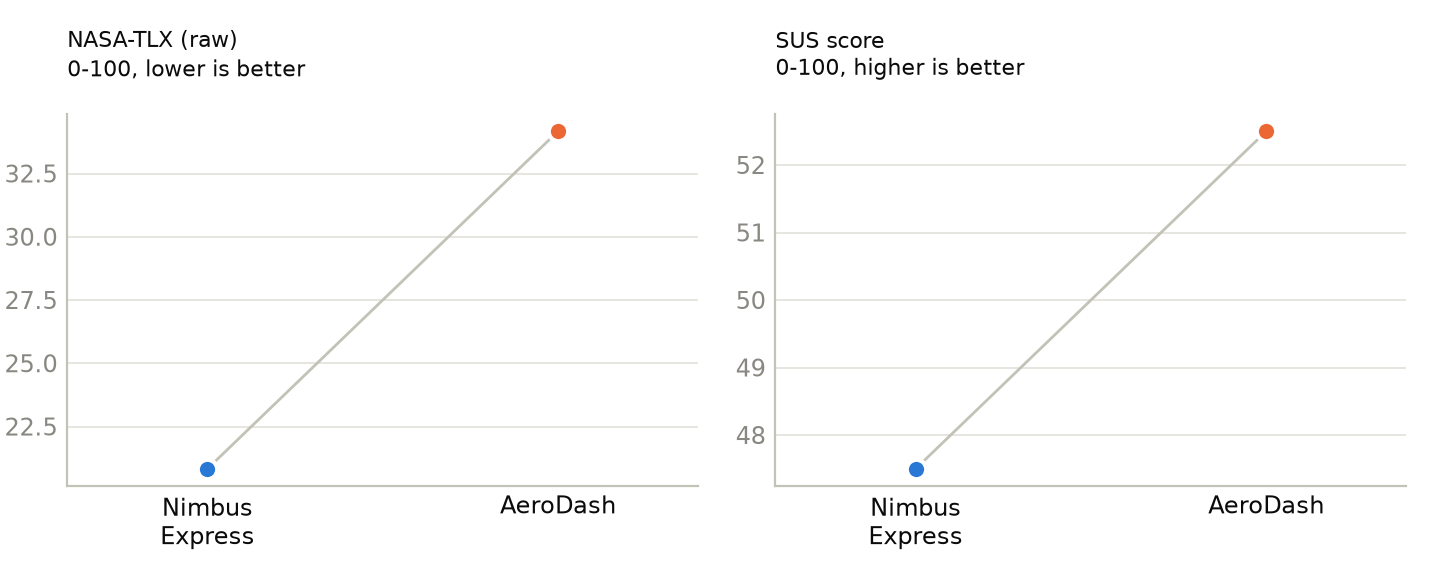
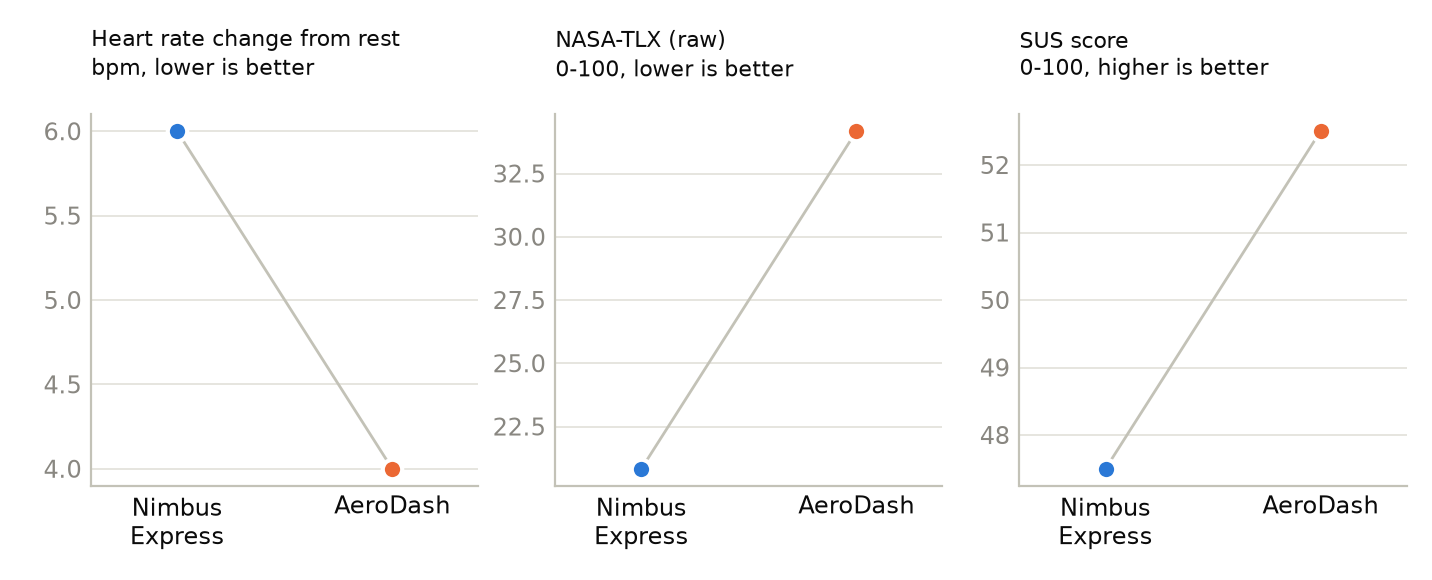
Rebuild report from 273fd54

diff --git a/report/REPORT.md b/report/REPORT.md
@@ -3,7 +3,7 @@
 [Author 1 Name], [Author 2 Name], [Author 3 Name], [Author 4 Name]
 *ENGR 321: Human Factors Engineering, [Department], [University]* · *Instructor: [Name]*
 
-> **Generated file — do not edit `report/REPORT.md` by hand.** Edit `report/template.md`; the report rebuilds from the data on every push. Numbers in this version: 1 participants, 2 flights, built 2026-11-19 05:21 UTC from commit `29f52c3`.
+> **Generated file — do not edit `report/REPORT.md` by hand.** Edit `report/template.md`; the report rebuilds from the data on every push. Numbers in this version: 1 participants, 2 flights, built 2026-11-19 15:59 UTC from commit `273fd54`.
 
 **_Abstract_—This study compared two drone delivery dashboards, Nimbus Express and AeroDash, to see how each one's design affects how quickly operators notice and act on alerts, how well they fly, and how stressed and loaded they feel. In a within-subject study, 1 participants flew a simulated delivery route once with each dashboard while three alerts appeared on the dashboard only: low battery, a wind warning, and a status check. No measure differed significantly between the dashboards at α = .05. [TO COMPLETE: one sentence on the main design recommendation.]**
 
@@ -90,21 +90,23 @@ Each measure was compared between dashboards with a two-tailed paired t-test (α
 
 **TABLE I.** Paired Comparison, Nimbus Express vs. AeroDash, Mean (SD)
 
-| Measure                                        | n   | Nimbus Express   | AeroDash   | Diff   | t(df)   | p   | d_z   |
-|:-----------------------------------------------|:----|:-----------------|:-----------|:-------|:--------|:----|:------|
-| Missed alerts (count, lower is better)         | 1   | 3.00 (—)         | 1.00 (—)   | 2.00   | —       | —   | —     |
-| Gates passed (of 15) (count, higher is better) | 1   | 15.00 (—)        | 9.00 (—)   | 6.00   | —       | —   | —     |
-| Collisions (count, lower is better)            | 1   | 0.00 (—)         | 0.00 (—)   | 0.00   | —       | —   | —     |
-| Path deviation (m, lower is better)            | 1   | 2.30 (—)         | 1.00 (—)   | 1.30   | —       | —   | —     |
-| Task time (s, lower is better)                 | 1   | 198.30 (—)       | 134.90 (—) | 63.40  | —       | —   | —     |
-| NASA-TLX (raw) (0-100, lower is better)        | 1   | 20.83 (—)        | 34.17 (—)  | -13.34 | —       | —   | —     |
-| SUS score (0-100, higher is better)            | 1   | 47.50 (—)        | 52.50 (—)  | -5.00  | —       | —   | —     |
+| Measure                                            | n   | Nimbus Express   | AeroDash   | Diff   | t(df)   | p   | d_z   |
+|:---------------------------------------------------|:----|:-----------------|:-----------|:-------|:--------|:----|:------|
+| Missed alerts (count, lower is better)             | 1   | 3.00 (—)         | 1.00 (—)   | 2.00   | —       | —   | —     |
+| Gates passed (of 15) (count, higher is better)     | 1   | 15.00 (—)        | 9.00 (—)   | 6.00   | —       | —   | —     |
+| Collisions (count, lower is better)                | 1   | 0.00 (—)         | 0.00 (—)   | 0.00   | —       | —   | —     |
+| Path deviation (m, lower is better)                | 1   | 2.30 (—)         | 1.00 (—)   | 1.30   | —       | —   | —     |
+| Task time (s, lower is better)                     | 1   | 198.30 (—)       | 134.90 (—) | 63.40  | —       | —   | —     |
+| Heart rate change from rest (bpm, lower is better) | 1   | 6.00 (—)         | 4.00 (—)   | 2.00   | —       | —   | —     |
+| NASA-TLX (raw) (0-100, lower is better)            | 1   | 20.83 (—)        | 34.17 (—)  | -13.34 | —       | —   | —     |
+| SUS score (0-100, higher is better)                | 1   | 47.50 (—)        | 52.50 (—)  | -5.00  | —       | —   | —     |
 
 - **Missed alerts:** not enough paired data for a test yet (n = 1).
 - **Gates passed (of 15):** not enough paired data for a test yet (n = 1).
 - **Collisions:** not enough paired data for a test yet (n = 1).
 - **Path deviation:** not enough paired data for a test yet (n = 1).
 - **Task time:** not enough paired data for a test yet (n = 1).
+- **Heart rate change from rest:** not enough paired data for a test yet (n = 1).
 - **NASA-TLX (raw):** not enough paired data for a test yet (n = 1).
 - **SUS score:** not enough paired data for a test yet (n = 1).
 
@@ -157,7 +159,7 @@ Each trial needs four files (summary, survey, events, telemetry).
 
 | Participant   | Baseline   | Trial1      | Trial2        | Heart rate   | Complete   |
 |:--------------|:-----------|:------------|:--------------|:-------------|:-----------|
-| P001          | no         | Nimbus: 4/4 | AeroDash: 4/4 | no           | no         |
+| P001          | no         | Nimbus: 4/4 | AeroDash: 4/4 | yes          | no         |
 
 ## ACKNOWLEDGMENT
 
